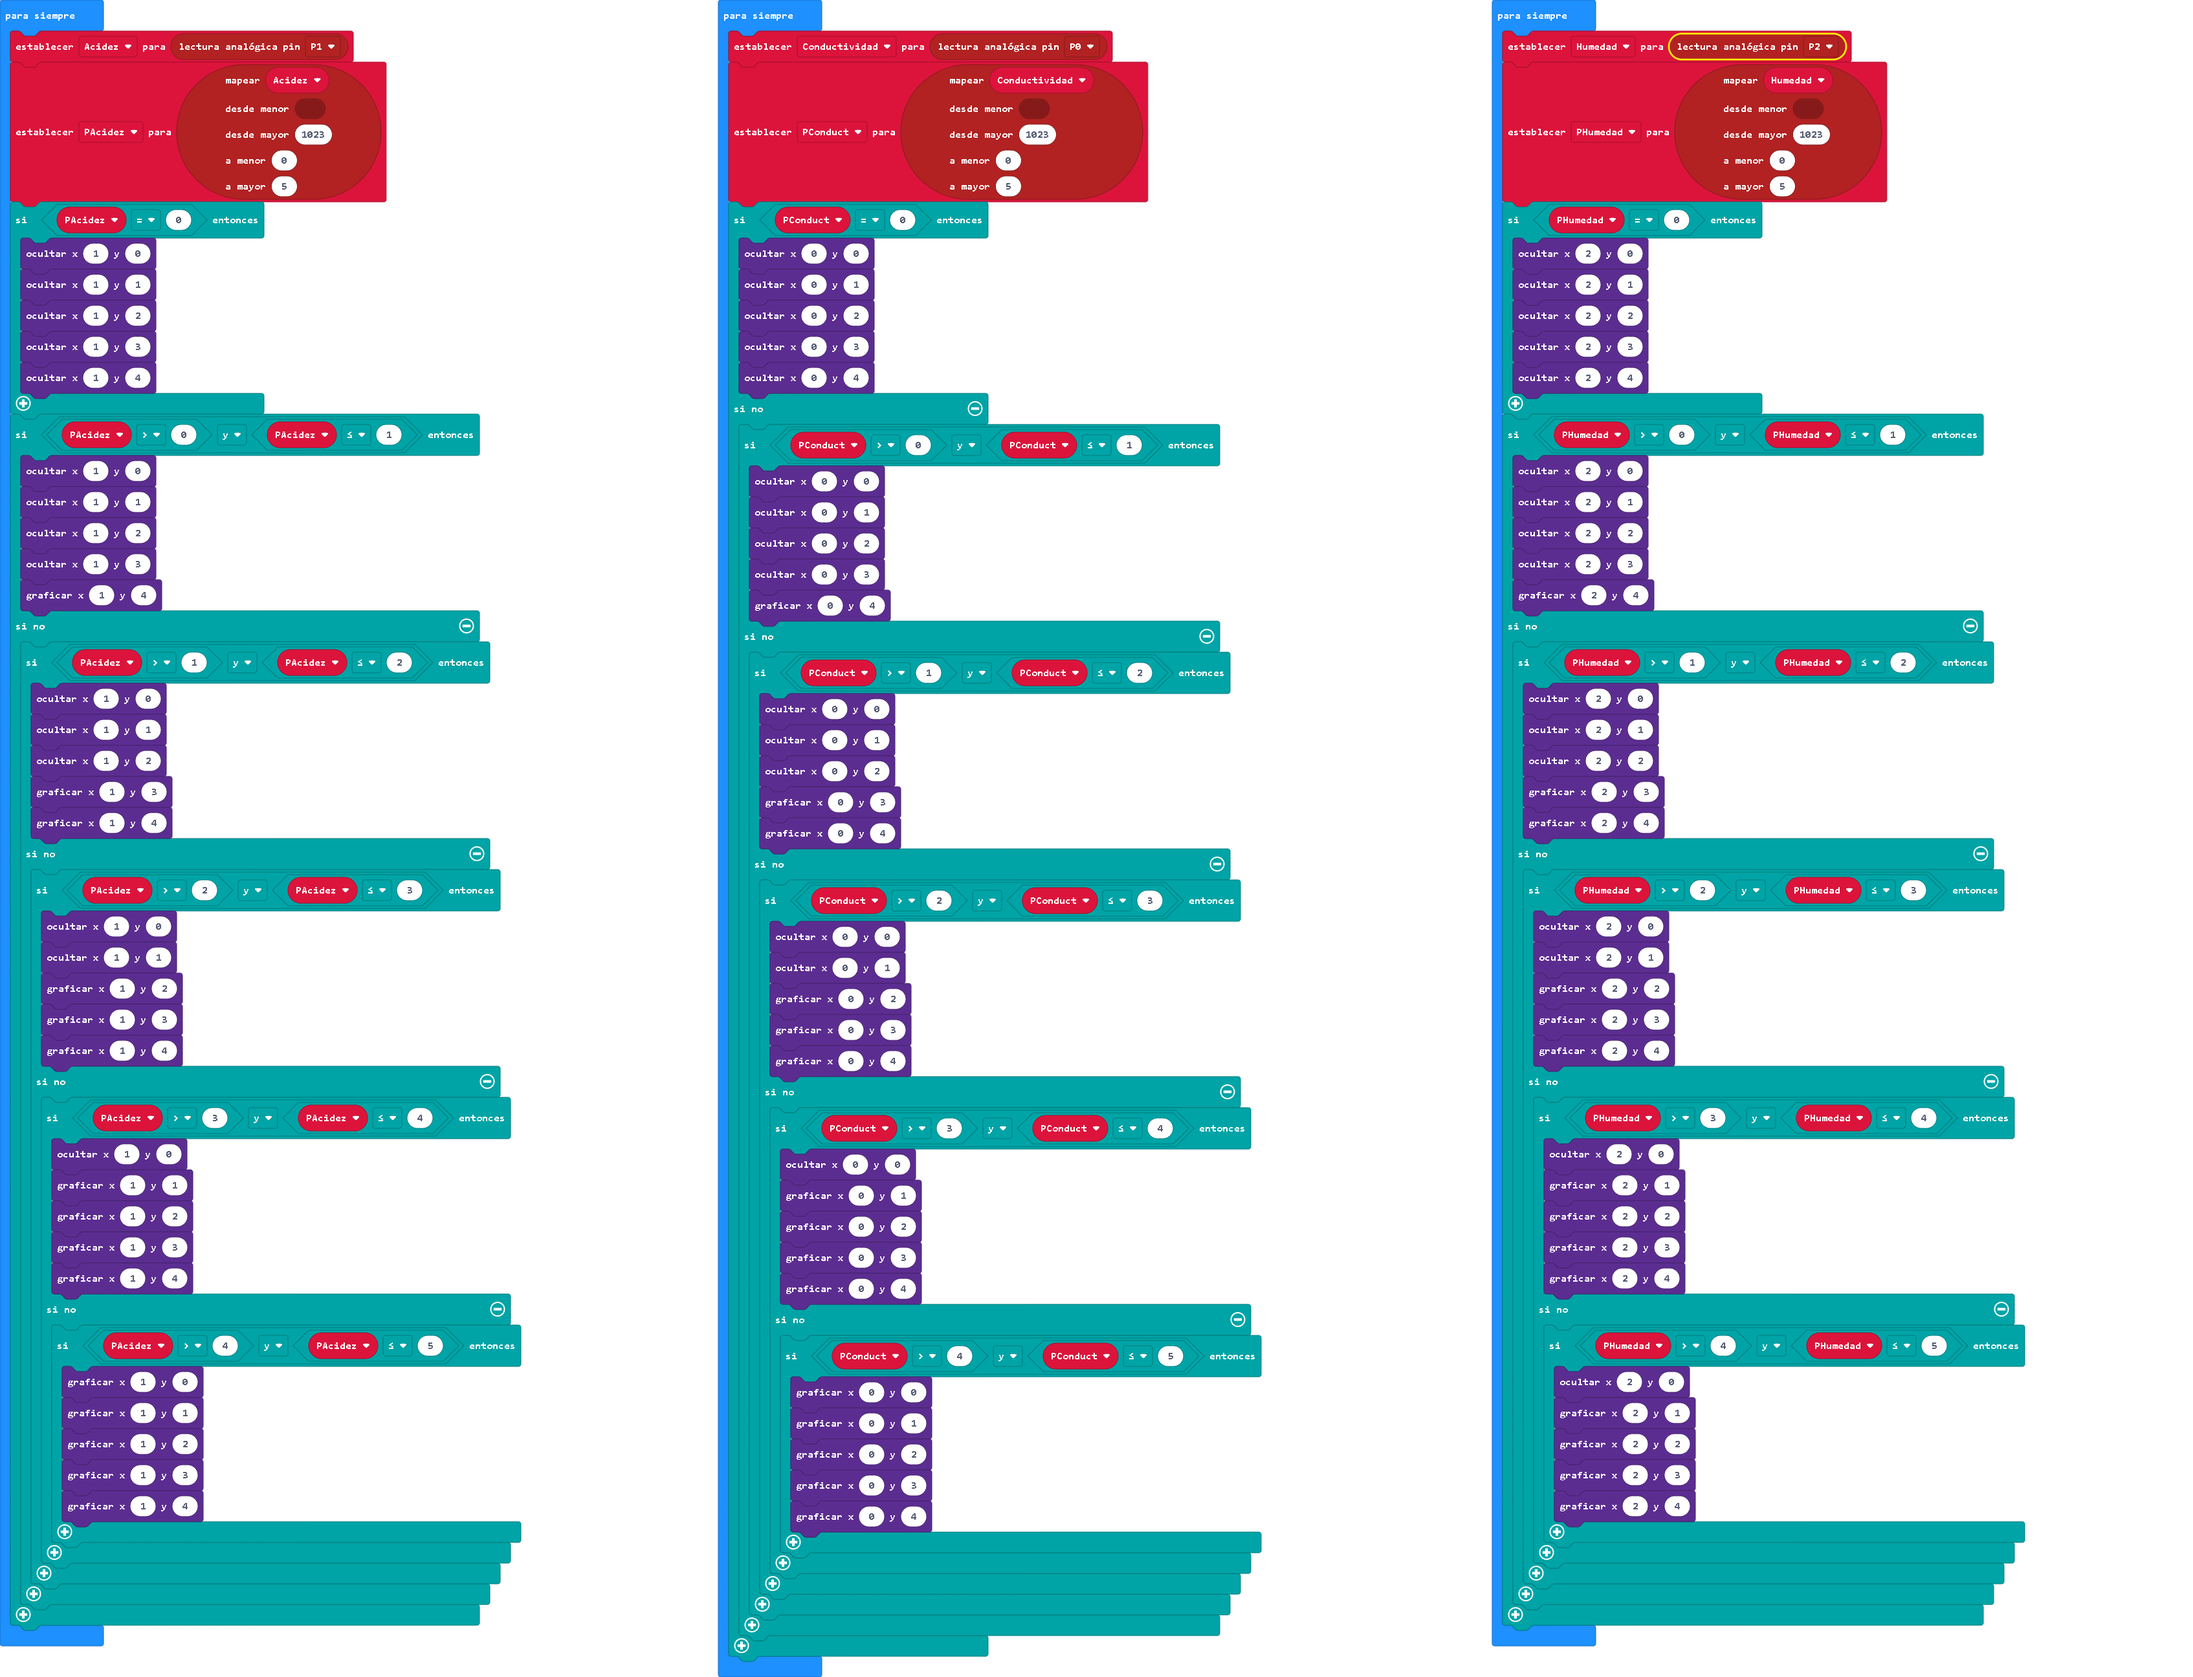
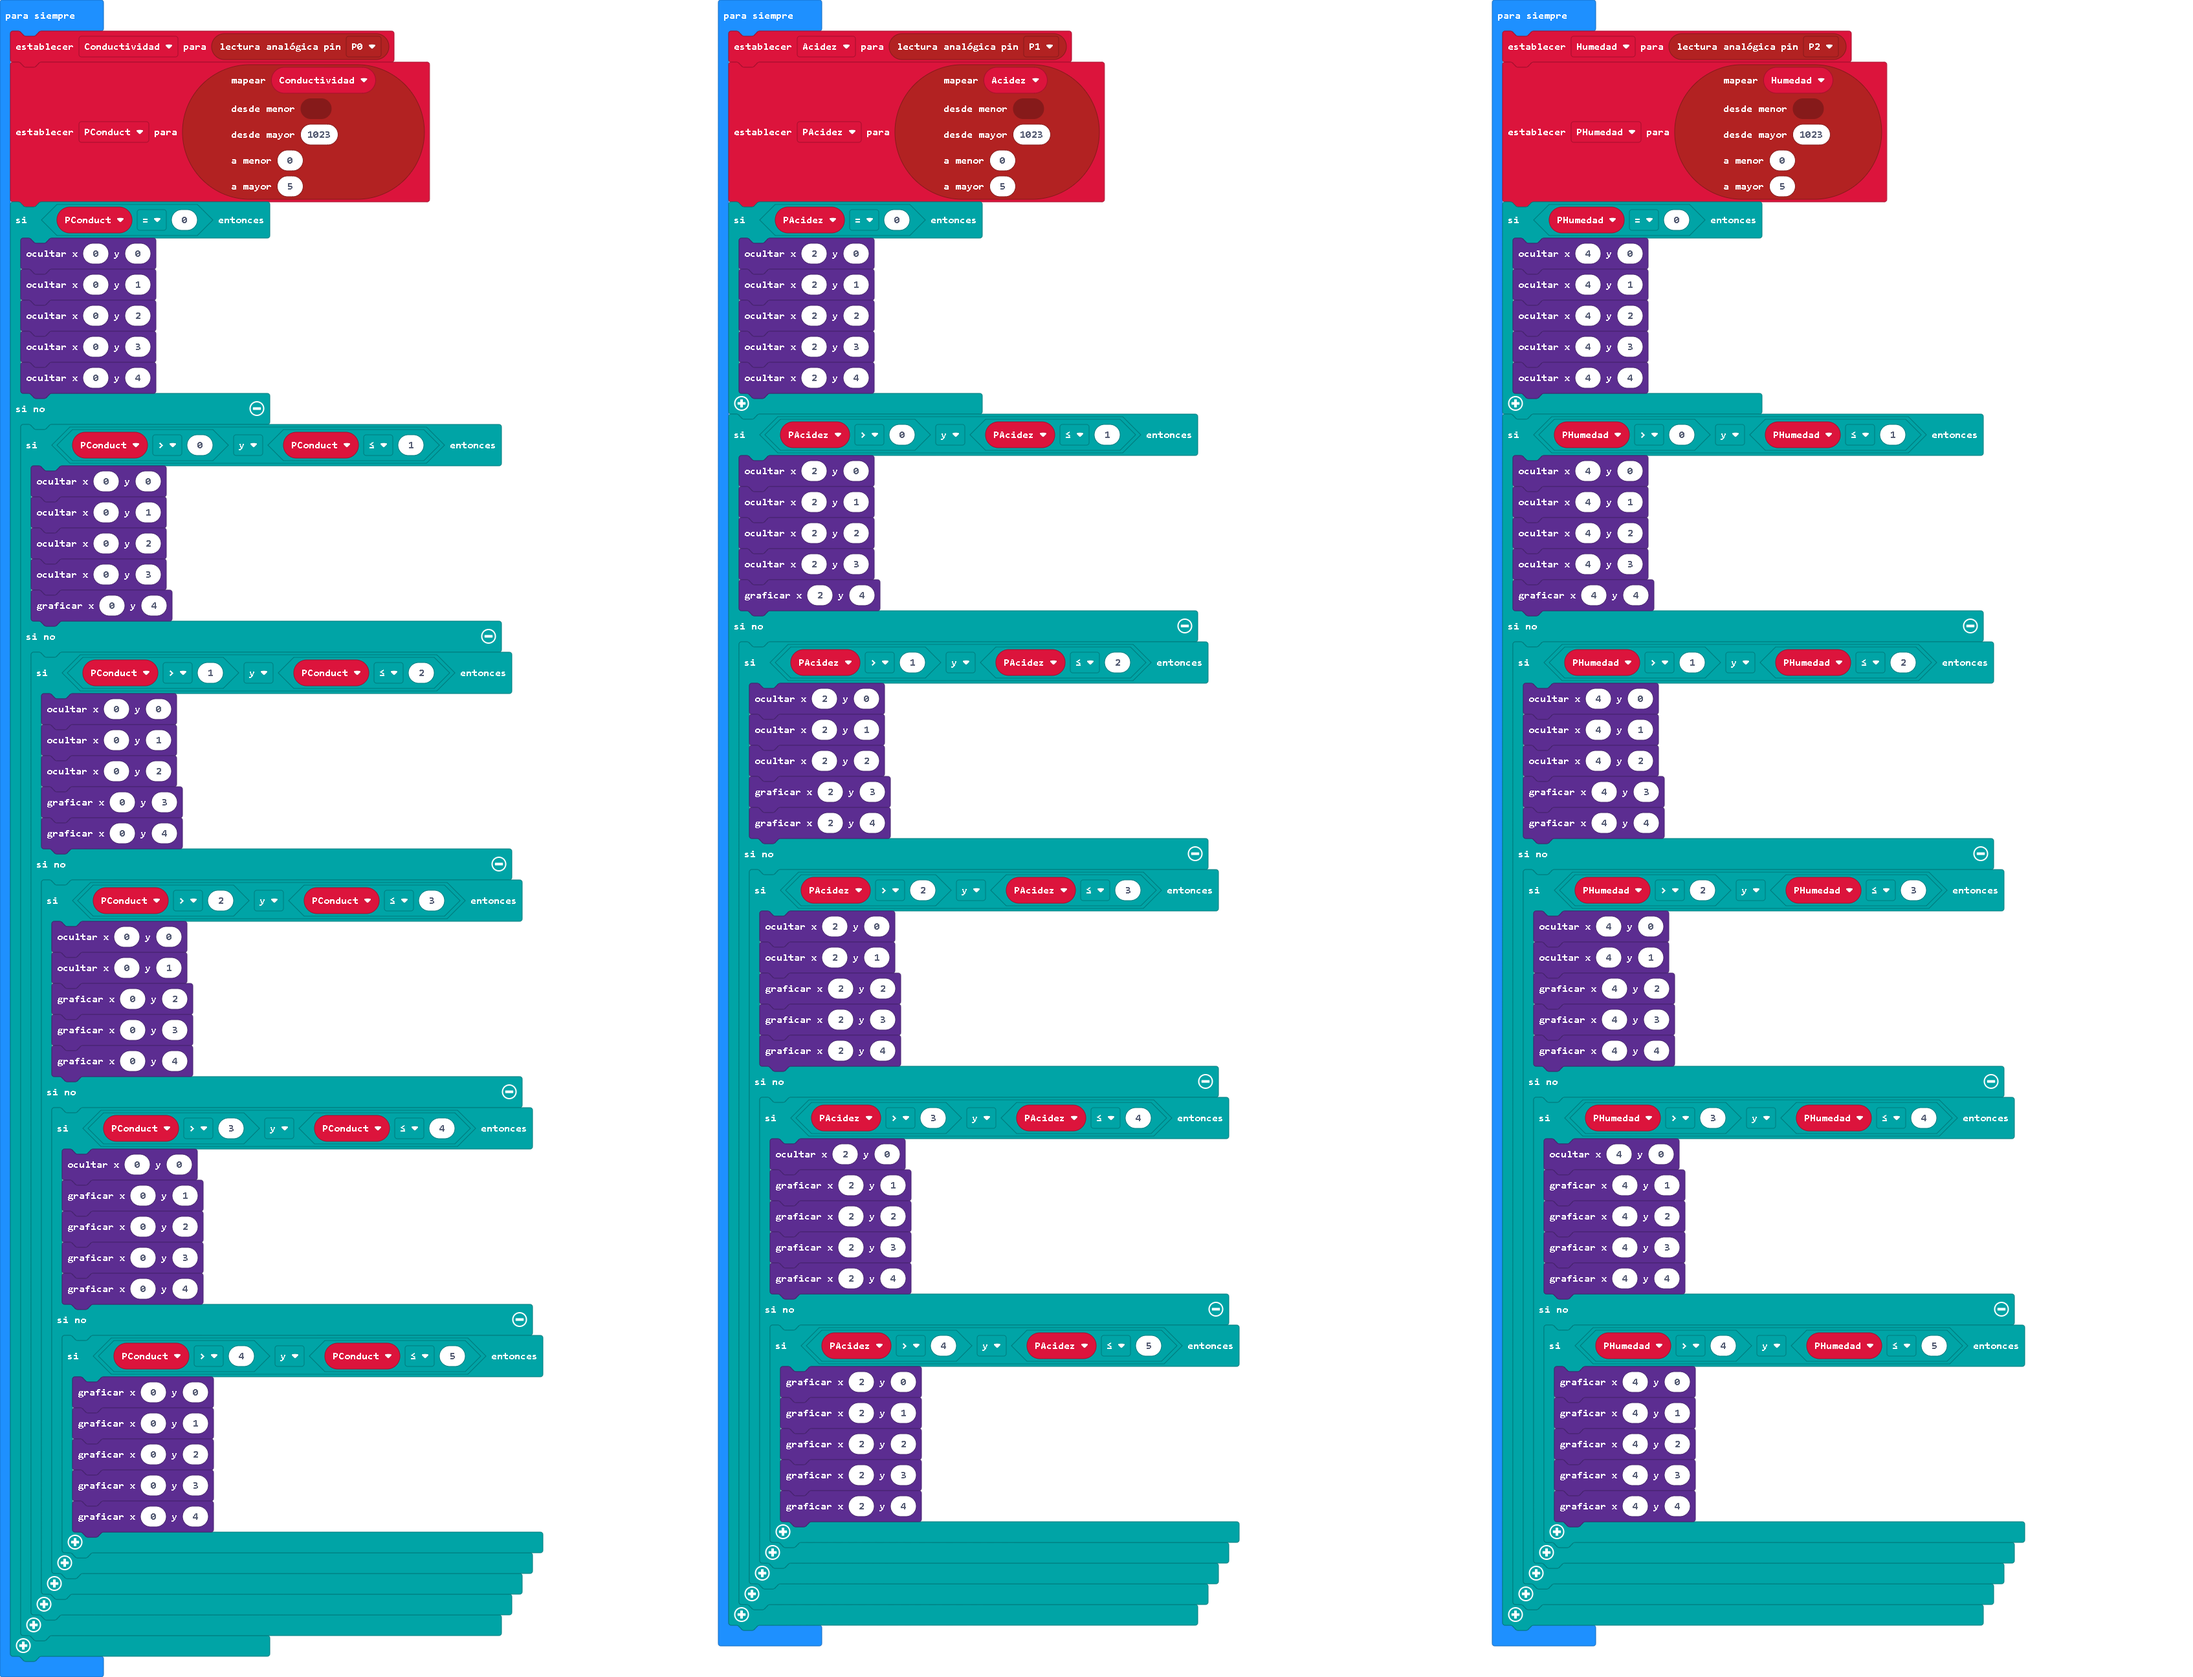
Actualizar pxt.json, main.blocks, main.ts

diff --git a/main.ts b/main.ts
@@ -1,65 +1,9 @@
-let Acidez = 0
-let PAcidez = 0
 let Conductividad = 0
 let PConduct = 0
+let Acidez = 0
+let PAcidez = 0
 let Humedad = 0
 let PHumedad = 0
-basic.forever(function () {
-    Acidez = pins.analogReadPin(AnalogPin.P1)
-    PAcidez = pins.map(
-    Acidez,
-    0,
-    1023,
-    0,
-    5
-    )
-    if (PAcidez == 0) {
-        led.unplot(1, 0)
-        led.unplot(1, 1)
-        led.unplot(1, 2)
-        led.unplot(1, 3)
-        led.unplot(1, 4)
-    }
-    if (PAcidez > 0 && PAcidez <= 1) {
-        led.unplot(1, 0)
-        led.unplot(1, 1)
-        led.unplot(1, 2)
-        led.unplot(1, 3)
-        led.plot(1, 4)
-    } else {
-        if (PAcidez > 1 && PAcidez <= 2) {
-            led.unplot(1, 0)
-            led.unplot(1, 1)
-            led.unplot(1, 2)
-            led.plot(1, 3)
-            led.plot(1, 4)
-        } else {
-            if (PAcidez > 2 && PAcidez <= 3) {
-                led.unplot(1, 0)
-                led.unplot(1, 1)
-                led.plot(1, 2)
-                led.plot(1, 3)
-                led.plot(1, 4)
-            } else {
-                if (PAcidez > 3 && PAcidez <= 4) {
-                    led.unplot(1, 0)
-                    led.plot(1, 1)
-                    led.plot(1, 2)
-                    led.plot(1, 3)
-                    led.plot(1, 4)
-                } else {
-                    if (PAcidez > 4 && PAcidez <= 5) {
-                        led.plot(1, 0)
-                        led.plot(1, 1)
-                        led.plot(1, 2)
-                        led.plot(1, 3)
-                        led.plot(1, 4)
-                    }
-                }
-            }
-        }
-    }
-})
 basic.forever(function () {
     Conductividad = pins.analogReadPin(AnalogPin.P0)
     PConduct = pins.map(
@@ -118,6 +62,62 @@ basic.forever(function () {
     }
 })
 basic.forever(function () {
+    Acidez = pins.analogReadPin(AnalogPin.P1)
+    PAcidez = pins.map(
+    Acidez,
+    0,
+    1023,
+    0,
+    5
+    )
+    if (PAcidez == 0) {
+        led.unplot(2, 0)
+        led.unplot(2, 1)
+        led.unplot(2, 2)
+        led.unplot(2, 3)
+        led.unplot(2, 4)
+    }
+    if (PAcidez > 0 && PAcidez <= 1) {
+        led.unplot(2, 0)
+        led.unplot(2, 1)
+        led.unplot(2, 2)
+        led.unplot(2, 3)
+        led.plot(2, 4)
+    } else {
+        if (PAcidez > 1 && PAcidez <= 2) {
+            led.unplot(2, 0)
+            led.unplot(2, 1)
+            led.unplot(2, 2)
+            led.plot(2, 3)
+            led.plot(2, 4)
+        } else {
+            if (PAcidez > 2 && PAcidez <= 3) {
+                led.unplot(2, 0)
+                led.unplot(2, 1)
+                led.plot(2, 2)
+                led.plot(2, 3)
+                led.plot(2, 4)
+            } else {
+                if (PAcidez > 3 && PAcidez <= 4) {
+                    led.unplot(2, 0)
+                    led.plot(2, 1)
+                    led.plot(2, 2)
+                    led.plot(2, 3)
+                    led.plot(2, 4)
+                } else {
+                    if (PAcidez > 4 && PAcidez <= 5) {
+                        led.plot(2, 0)
+                        led.plot(2, 1)
+                        led.plot(2, 2)
+                        led.plot(2, 3)
+                        led.plot(2, 4)
+                    }
+                }
+            }
+        }
+    }
+})
+basic.forever(function () {
     Humedad = pins.analogReadPin(AnalogPin.P2)
     PHumedad = pins.map(
     Humedad,
@@ -127,46 +127,46 @@ basic.forever(function () {
     5
     )
     if (PHumedad == 0) {
-        led.unplot(2, 0)
-        led.unplot(2, 1)
-        led.unplot(2, 2)
-        led.unplot(2, 3)
-        led.unplot(2, 4)
+        led.unplot(4, 0)
+        led.unplot(4, 1)
+        led.unplot(4, 2)
+        led.unplot(4, 3)
+        led.unplot(4, 4)
     }
     if (PHumedad > 0 && PHumedad <= 1) {
-        led.unplot(2, 0)
-        led.unplot(2, 1)
-        led.unplot(2, 2)
-        led.unplot(2, 3)
-        led.plot(2, 4)
+        led.unplot(4, 0)
+        led.unplot(4, 1)
+        led.unplot(4, 2)
+        led.unplot(4, 3)
+        led.plot(4, 4)
     } else {
         if (PHumedad > 1 && PHumedad <= 2) {
-            led.unplot(2, 0)
-            led.unplot(2, 1)
-            led.unplot(2, 2)
-            led.plot(2, 3)
-            led.plot(2, 4)
+            led.unplot(4, 0)
+            led.unplot(4, 1)
+            led.unplot(4, 2)
+            led.plot(4, 3)
+            led.plot(4, 4)
         } else {
             if (PHumedad > 2 && PHumedad <= 3) {
-                led.unplot(2, 0)
-                led.unplot(2, 1)
-                led.plot(2, 2)
-                led.plot(2, 3)
-                led.plot(2, 4)
+                led.unplot(4, 0)
+                led.unplot(4, 1)
+                led.plot(4, 2)
+                led.plot(4, 3)
+                led.plot(4, 4)
             } else {
                 if (PHumedad > 3 && PHumedad <= 4) {
-                    led.unplot(2, 0)
-                    led.plot(2, 1)
-                    led.plot(2, 2)
-                    led.plot(2, 3)
-                    led.plot(2, 4)
+                    led.unplot(4, 0)
+                    led.plot(4, 1)
+                    led.plot(4, 2)
+                    led.plot(4, 3)
+                    led.plot(4, 4)
                 } else {
                     if (PHumedad > 4 && PHumedad <= 5) {
-                        led.plot(2, 0)
-                        led.plot(2, 1)
-                        led.plot(2, 2)
-                        led.plot(2, 3)
-                        led.plot(2, 4)
+                        led.plot(4, 0)
+                        led.plot(4, 1)
+                        led.plot(4, 2)
+                        led.plot(4, 3)
+                        led.plot(4, 4)
                     }
                 }
             }
